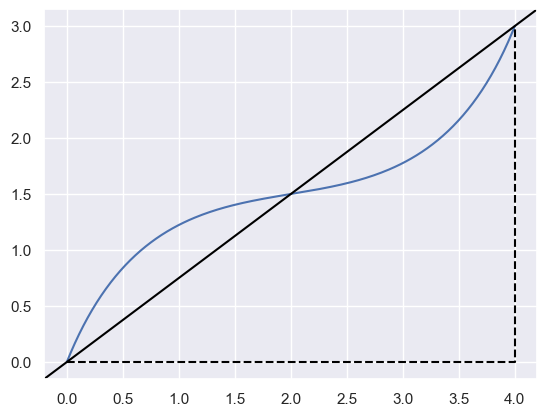
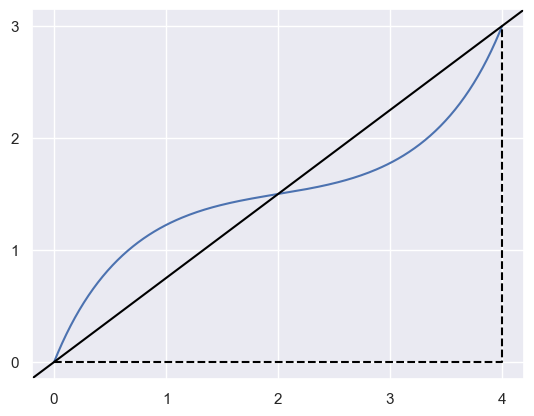
Removing normalization from `clipping`.
Also removes some other unneeded scaling. The primary motivation
for me here was to make it more possible to get an **exact** answer
(of `0.875`) out of my handcrafted example. However, when I actually
dug into where the roundoff was occurring, I realized a lot of the
scaling / normalizing wasn't necessary and was introducing the
roundoff cost as along with extra flops.

diff --git a/src/python/bezier/hazmat/clipping.py b/src/python/bezier/hazmat/clipping.py
@@ -41,21 +41,24 @@ DEFAULT_S_MAX = 0.0
 
 
 def compute_implicit_line(nodes):
-    """Compute the implicit form of the line connecting curve endpoints.
+    r"""Compute the implicit form of the line connecting curve endpoints.
 
     .. note::
 
        This assumes, but does not check, that the first and last node
        in ``nodes`` are different.
 
-    Computes :math:`a, b` and :math:`c` in the normalized implicit equation
+    Computes :math:`a, b` and :math:`c` in the implicit equation
     for the line
 
     .. math::
 
        ax + by + c = 0
 
-    where :math:`a^2 + b^2 = 1` (only unique up to sign).
+    In cases where the line is normalized (:math:`a^2 + b^2 = 1`, only unique
+    up to sign), the function :math:`d(x, y) = ax + by + c` can be used to
+    determine the point-line distance from a point
+    :math:`\left[\begin{array}{c} x \\ y \end{array}\right]` to the line.
 
     .. image:: ../../images/compute_implicit_line.png
        :align: center
@@ -74,7 +77,7 @@ def compute_implicit_line(nodes):
        ...     [0.0, 2.5, 0.5, 3.0],
        ... ])
        >>> compute_implicit_line(nodes)
-       (-0.6, 0.8, 0.0)
+       (-3.0, 4.0, 0.0)
 
     .. testcleanup:: compute-implicit-line
 
@@ -94,29 +97,28 @@ def compute_implicit_line(nodes):
         * The constant :math:`c`
     """
     delta = nodes[:, -1] - nodes[:, 0]
-    length = np.linalg.norm(delta, ord=2)
-    # Normalize and rotate 90 degrees to the "left".
-    coeff_a = -delta[1] / length
-    coeff_b = delta[0] / length
-    # c = - ax - by = (delta[1] x - delta[0] y) / L
-    # NOTE: We divide by ``length`` at the end to "put off" rounding.
-    coeff_c = (delta[1] * nodes[0, 0] - delta[0] * nodes[1, 0]) / length
+    # Rotate 90 degrees to the "left".
+    coeff_a = -delta[1]
+    coeff_b = delta[0]
+    # c = - ax - by = delta[1] x - delta[0] y
+    coeff_c = delta[1] * nodes[0, 0] - delta[0] * nodes[1, 0]
     return coeff_a, coeff_b, coeff_c
 
 
 def compute_fat_line(nodes):
     """Compute the "fat line" around a B |eacute| zier curve.
 
-    Both computes the implicit (normalized) form
+    Both computes the implicit form
 
     .. math::
 
        ax + by + c = 0
 
     for the line connecting the first and last node in ``nodes``.
-    Also computes the maximum and minimum distances to that line
-    from each control point where distance :math:`d` is computed as
-    :math:`d_i = a x_i + b y_i + c`. (This is made possible by the fact that
+    Also computes the maximum and minimum (non-normalized) distances to that
+    line from each control point where (non-normalized) distance :math:`d` is
+    computed as :math:`d_i = a x_i + b y_i + c`. (To make :math:`d` a true
+    measure of Euclidean distance the line would need to be normalized so that
     :math:`a^2 + b^2 = 1`.)
 
     .. image:: ../../images/compute_fat_line.png
@@ -137,7 +139,7 @@ def compute_fat_line(nodes):
        ... ])
        >>> info = compute_fat_line(nodes)
        >>> info
-       (-0.6, 0.8, -1.6, -1.4, 1.4)
+       (-3.0, 4.0, -8.0, -7.0, 7.0)
 
     .. testcleanup:: compute-fat-line
 
@@ -153,8 +155,10 @@ def compute_fat_line(nodes):
         * The :math:`x` coefficient :math:`a`
         * The :math:`y` coefficient :math:`b`
         * The constant :math:`c`
-        * The "minimum" distance to the fat line among the control points.
-        * The "maximum" distance to the fat line among the control points.
+        * The "minimum" (non-normalized)  distance to the fat line among the
+          control points.
+        * The "maximum" (non-normalized)  distance to the fat line among the
+          control points.
     """
     coeff_a, coeff_b, coeff_c = compute_implicit_line(nodes)
     # NOTE: This assumes, but does not check, that there are two rows.
@@ -189,8 +193,7 @@ def _update_parameters(s_min, s_max, start0, end0, start1, end1):
     ``s_min`` will be updated.
 
     In cases where a given parameter :math:`s` would be a valid update
-    for both ``s_min`` and ``s_max``
-    This function **only** updates ``s_min``
+    for both ``s_min`` and ``s_max``, this function **only** updates ``s_min``.
 
     Args:
         s_min (float): Current start of clipped interval. If "unset", this
@@ -272,7 +275,7 @@ def _check_parameter_range(s_min, s_max):
 
 
 def _clip_range_polynomial(nodes, coeff_a, coeff_b, coeff_c):
-    """Compute control points for a polynomial used to clip range.
+    r"""Compute control points for a polynomial used to clip range.
 
     Args:
         nodes (numpy.ndarray): ``2 x N`` array of nodes in a curve.
@@ -286,20 +289,23 @@ def _clip_range_polynomial(nodes, coeff_a, coeff_b, coeff_c):
             :math:`ax + by + c = 0`.
 
     Returns:
-        numpy.ndarray: ``2 x N`` array of polynomial curve with distances
-        :math:`d_i = a x_i + b y_i + c` as the control points (and the
-        ``x``-coordinates evenly spaced).
+        numpy.ndarray: Pair of
+
+        * The degree :math:`d` of ``nodes`` (also the width of the
+          ``x``-interval :math:`\left[0, d\right]`)
+        * ``2 x N`` array of polynomial curve with distances
+          :math:`d_i = a x_i + b y_i + c` as the control points (and the
+          ``x``-coordinates evenly spaced).
     """
     _, num_nodes = nodes.shape
     polynomial = np.empty((2, num_nodes), order="F")
-    denominator = float(num_nodes - 1)
     for index in range(num_nodes):
-        polynomial[0, index] = index / denominator
+        polynomial[0, index] = index
         polynomial[1, index] = (
             coeff_a * nodes[0, index] + coeff_b * nodes[1, index] + coeff_c
         )
 
-    return polynomial
+    return num_nodes - 1, polynomial
 
 
 def clip_range(nodes1, nodes2):
@@ -317,16 +323,16 @@ def clip_range(nodes1, nodes2):
     Two B |eacute| zier curves :math:`B_1(s)` and :math:`B_2(t)` are defined by
     ``nodes1`` and ``nodes2``. The "fat line" (see :func:`compute_fat_line`)
     for :math:`B_1(s)` is used to narrow the range of possible :math:`t`-values
-    in an intersection by considering the distance polynomial for
-    :math:`B_2(t)`:
+    in an intersection by considering the (non-normalized) distance polynomial
+    for :math:`B_2(t)`:
 
     .. math::
 
        d(t) = \sum_{j = 0}^m \binom{m}{j} t^j (1 - t)^{m - j} \cdot d_j
 
-    Here :math:`d_j = a x_j + b y_j + c` are the distances of each control
-    point :math:`(x_j, y_j)` of :math:`B_2(t)` to the implicit line for
-    :math:`B_1(s)`.
+    Here :math:`d_j = a x_j + b y_j + c` are the (non-normalized) distances of
+    each control point :math:`(x_j, y_j)` of :math:`B_2(t)` to the implicit
+    line for :math:`B_1(s)`.
 
     Consider the following pair of B |eacute| zier curves and the distances
     from **all** of the control points to the implicit line for :math:`B_1(s)`:
@@ -359,9 +365,9 @@ def clip_range(nodes1, nodes2):
     .. image:: ../../images/clip_range.png
        :align: center
 
-    The distances from the control points of :math:`B_2(t)` define the
-    distance polynomial :math:`d(t)`. By writing this polynomial as a
-    B |eacute| zier curve, a convex hull can be formed. The intersection of
+    The (non-normalized) distances from the control points of :math:`B_2(t)`
+    define the distance polynomial :math:`d(t)`. By writing this polynomial as
+    a B |eacute| zier curve, a convex hull can be formed. The intersection of
     this convex hull with the "fat line" of :math:`B_1(s)` determines the
     extreme :math:`t` values possible and allows clipping the range of
     :math:`B_2(t)`:
@@ -372,11 +378,8 @@ def clip_range(nodes1, nodes2):
     .. doctest:: clip-range
        :options: +NORMALIZE_WHITESPACE
 
-       >>> s_min, s_max = clip_range(nodes1, nodes2)
-       >>> s_min
-       0.25
-       >>> np.allclose(s_max, 0.875, rtol=0.5 ** 52, atol=0.0)
-       True
+       >>> clip_range(nodes1, nodes2)
+       (0.25, 0.875)
 
     .. testcleanup:: clip-range
 
@@ -396,25 +399,26 @@ def clip_range(nodes1, nodes2):
         * The start parameter of the clipped range.
         * The end parameter of the clipped range.
     """
-    # NOTE: There is no corresponding "enable", but the disable only applies
-    #       in this lexical scope.
+    # NOTE: There is no corresponding "pylint: enable", but the disable only
+    #       applies in this lexical scope.
     # pylint: disable=too-many-locals
     coeff_a, coeff_b, coeff_c, d_min, d_max = compute_fat_line(nodes1)
-    polynomial = _clip_range_polynomial(nodes2, coeff_a, coeff_b, coeff_c)
+    degree2, polynomial = _clip_range_polynomial(
+        nodes2, coeff_a, coeff_b, coeff_c
+    )
     # Define segments for the top and the bottom of the region
     # bounded by the fat line.
     start_bottom = np.asfortranarray([0.0, d_min])
-    end_bottom = np.asfortranarray([1.0, d_min])
+    end_bottom = np.asfortranarray([degree2, d_min])
     start_top = np.asfortranarray([0.0, d_max])
-    end_top = np.asfortranarray([1.0, d_max])
+    end_top = np.asfortranarray([degree2, d_max])
     s_min = DEFAULT_S_MIN
     s_max = DEFAULT_S_MAX
     # NOTE: We avoid computing the convex hull and just compute where
     #       all segments connecting two control points intersect the
     #       fat lines.
-    _, num_nodes2 = nodes2.shape
-    for start_index in range(num_nodes2 - 1):
-        for end_index in range(start_index + 1, num_nodes2):
+    for start_index in range(degree2):
+        for end_index in range(start_index + 1, degree2 + 1):
             s_min, s_max = _update_parameters(
                 s_min,
                 s_max,

diff --git a/tests/unit/hazmat/test_clipping.py b/tests/unit/hazmat/test_clipping.py
@@ -15,9 +15,6 @@ import unittest
 import numpy as np
 
 
-SPACING = np.spacing  # pylint: disable=no-member
-
-
 class Test_compute_implicit_line(unittest.TestCase):
     @staticmethod
     def _call_function_under_test(nodes):
@@ -29,24 +26,22 @@ class Test_compute_implicit_line(unittest.TestCase):
         nodes = np.asfortranarray([[1.0, 5.0], [2.0, 2.0]])
         coeff_a, coeff_b, coeff_c = self._call_function_under_test(nodes)
         self.assertEqual(coeff_a, 0.0)
-        self.assertEqual(coeff_b, 1.0)
-        self.assertEqual(coeff_c, -2.0)
+        self.assertEqual(coeff_b, 4.0)
+        self.assertEqual(coeff_c, -8.0)
 
     def test_rational_length(self):
         nodes = np.asfortranarray([[3.0, 7.0], [2.0, 5.0]])
         coeff_a, coeff_b, coeff_c = self._call_function_under_test(nodes)
-        self.assertEqual(coeff_a, -3.0 / 5.0)
-        self.assertEqual(coeff_b, 4.0 / 5.0)
-        self.assertEqual(coeff_c, 1.0 / 5.0)
+        self.assertEqual(coeff_a, -3.0)
+        self.assertEqual(coeff_b, 4.0)
+        self.assertEqual(coeff_c, 1.0)
 
     def test_irrational_length(self):
         nodes = np.asfortranarray([[4.0, 5.0], [7.0, 8.0]])
         coeff_a, coeff_b, coeff_c = self._call_function_under_test(nodes)
-        sqrt_half = np.sqrt(0.5)
-        delta = SPACING(sqrt_half)  # pylint: disable=assignment-from-no-return
-        self.assertAlmostEqual(coeff_a, -sqrt_half, delta=delta)
-        self.assertAlmostEqual(coeff_b, sqrt_half, delta=delta)
-        self.assertAlmostEqual(coeff_c, -3 * sqrt_half, delta=4 * delta)
+        self.assertEqual(coeff_a, -1.0)
+        self.assertEqual(coeff_b, 1.0)
+        self.assertEqual(coeff_c, -3.0)
 
 
 class Test_compute_fat_line(unittest.TestCase):
@@ -61,8 +56,8 @@ class Test_compute_fat_line(unittest.TestCase):
         result = self._call_function_under_test(nodes)
         coeff_a, coeff_b, coeff_c, d_min, d_max = result
         self.assertEqual(coeff_a, 0.0)
-        self.assertEqual(coeff_b, 1.0)
-        self.assertEqual(coeff_c, -2.0)
+        self.assertEqual(coeff_b, 4.0)
+        self.assertEqual(coeff_c, -8.0)
         self.assertEqual(d_min, 0.0)
         self.assertEqual(d_max, 0.0)
 
@@ -70,10 +65,10 @@ class Test_compute_fat_line(unittest.TestCase):
         nodes = np.asfortranarray([[0.0, 1.0, 0.0], [0.0, 1.0, 2.0]])
         result = self._call_function_under_test(nodes)
         coeff_a, coeff_b, coeff_c, d_min, d_max = result
-        self.assertEqual(coeff_a, -1.0)
+        self.assertEqual(coeff_a, -2.0)
         self.assertEqual(coeff_b, 0.0)
         self.assertEqual(coeff_c, 0.0)
-        self.assertEqual(d_min, -1.0)
+        self.assertEqual(d_min, -2.0)
         self.assertEqual(d_max, 0.0)
 
     def test_many_interior(self):
@@ -83,10 +78,10 @@ class Test_compute_fat_line(unittest.TestCase):
         result = self._call_function_under_test(nodes)
         coeff_a, coeff_b, coeff_c, d_min, d_max = result
         self.assertEqual(coeff_a, 0.0)
-        self.assertEqual(coeff_b, 1.0)
+        self.assertEqual(coeff_b, 4.0)
         self.assertEqual(coeff_c, 0.0)
-        self.assertEqual(d_min, -4.0)
-        self.assertEqual(d_max, 4.0)
+        self.assertEqual(d_min, -16.0)
+        self.assertEqual(d_max, 16.0)
 
 
 class Test__update_parameters(unittest.TestCase):

diff --git a/docs/make_images.py b/docs/make_images.py
@@ -1703,6 +1703,11 @@ def _plot_endpoints_line(ax, fat_line_coeffs, **plot_kwargs):
     ax.set_xlim(min_x, max_x)
 
 
+def _normalize_implicit_line_tuple(info):
+    length = np.linalg.norm(info[:2], ord=2)
+    return tuple(np.array(info) / length)
+
+
 def compute_implicit_line(nodes):
     """Image for :func:`.hazmat.clipping.compute_implicit_line` docstring."""
     if NO_IMAGES:
@@ -1721,8 +1726,12 @@ def compute_implicit_line(nodes):
     )
 
     ax.axis("scaled")
+    # NOTE: This "cheats" and assumes knowledge of what's actually in ``nodes``.
+    ax.set_xticks([0.0, 1.0, 2.0, 3.0, 4.0])
+    ax.set_yticks([0.0, 1.0, 2.0, 3.0])
 
     info = clipping.compute_fat_line(nodes)
+    info = _normalize_implicit_line_tuple(info)
     _plot_endpoints_line(ax, info, color="black")
     save_image(ax.figure, "compute_implicit_line.png")
 
@@ -1777,6 +1786,7 @@ def compute_fat_line(nodes, fat_line_coeffs):
     if NO_IMAGES:
         return
 
+    fat_line_coeffs = _normalize_implicit_line_tuple(fat_line_coeffs)
     curve = bezier.Curve.from_nodes(nodes)
     ax = curve.plot(256, color=BLUE)
     ax.plot(
@@ -1809,6 +1819,7 @@ def clip_range(nodes1, nodes2):
     )
 
     fat_line_coeffs = clipping.compute_fat_line(nodes1)
+    fat_line_coeffs = _normalize_implicit_line_tuple(fat_line_coeffs)
     # Add perpendicular lines to the "implicit" line.
     _add_perpendicular_segments(ax, nodes2, fat_line_coeffs, GREEN)
 
@@ -1831,10 +1842,14 @@ def clip_range_distances(nodes1, nodes2):
     figure = plt.figure()
     ax = figure.gca()
 
-    coeff_a, coeff_b, coeff_c, d_min, d_max = clipping.compute_fat_line(nodes1)
-    polynomial = clipping._clip_range_polynomial(
+    fat_line_coeffs = clipping.compute_fat_line(nodes1)
+    fat_line_coeffs = _normalize_implicit_line_tuple(fat_line_coeffs)
+    coeff_a, coeff_b, coeff_c, d_min, d_max = fat_line_coeffs
+    degree2, polynomial = clipping._clip_range_polynomial(
         nodes2, coeff_a, coeff_b, coeff_c
     )
+    # Normalize the x-range to be in [0, 1].
+    polynomial[0, :] /= degree2
     ax.fill_between([0.0, 1.0], d_min, d_max, color=BLUE, alpha=0.25)
     s_min, s_max = clipping.clip_range(nodes1, nodes2)
 
@@ -1843,8 +1858,7 @@ def clip_range_distances(nodes1, nodes2):
         ax, convex_hull, GREEN, with_nodes=True, alpha=0.625, node_color=GREEN,
     )
 
-    _, num_nodes2 = nodes2.shape
-    for index in range(num_nodes2):
+    for index in range(degree2 + 1):
         x_val, y_val = polynomial[:, index]
         ax.plot([x_val, x_val], [0.0, y_val], color=GREEN, linestyle="dashed")
 
@@ -1862,8 +1876,8 @@ def clip_range_distances(nodes1, nodes2):
     )
 
     # Use minor xticks **above** for showing s_min and s_max.
-    ax.set_xticks([0.25, 0.875], minor=True)
-    ax.set_xticklabels(["0.25", "0.875"], minor=True)
+    ax.set_xticks([s_min, s_max], minor=True)
+    ax.set_xticklabels([str(s_min), str(s_max)], minor=True)
     ax.tick_params(
         axis="x",
         which="minor",
